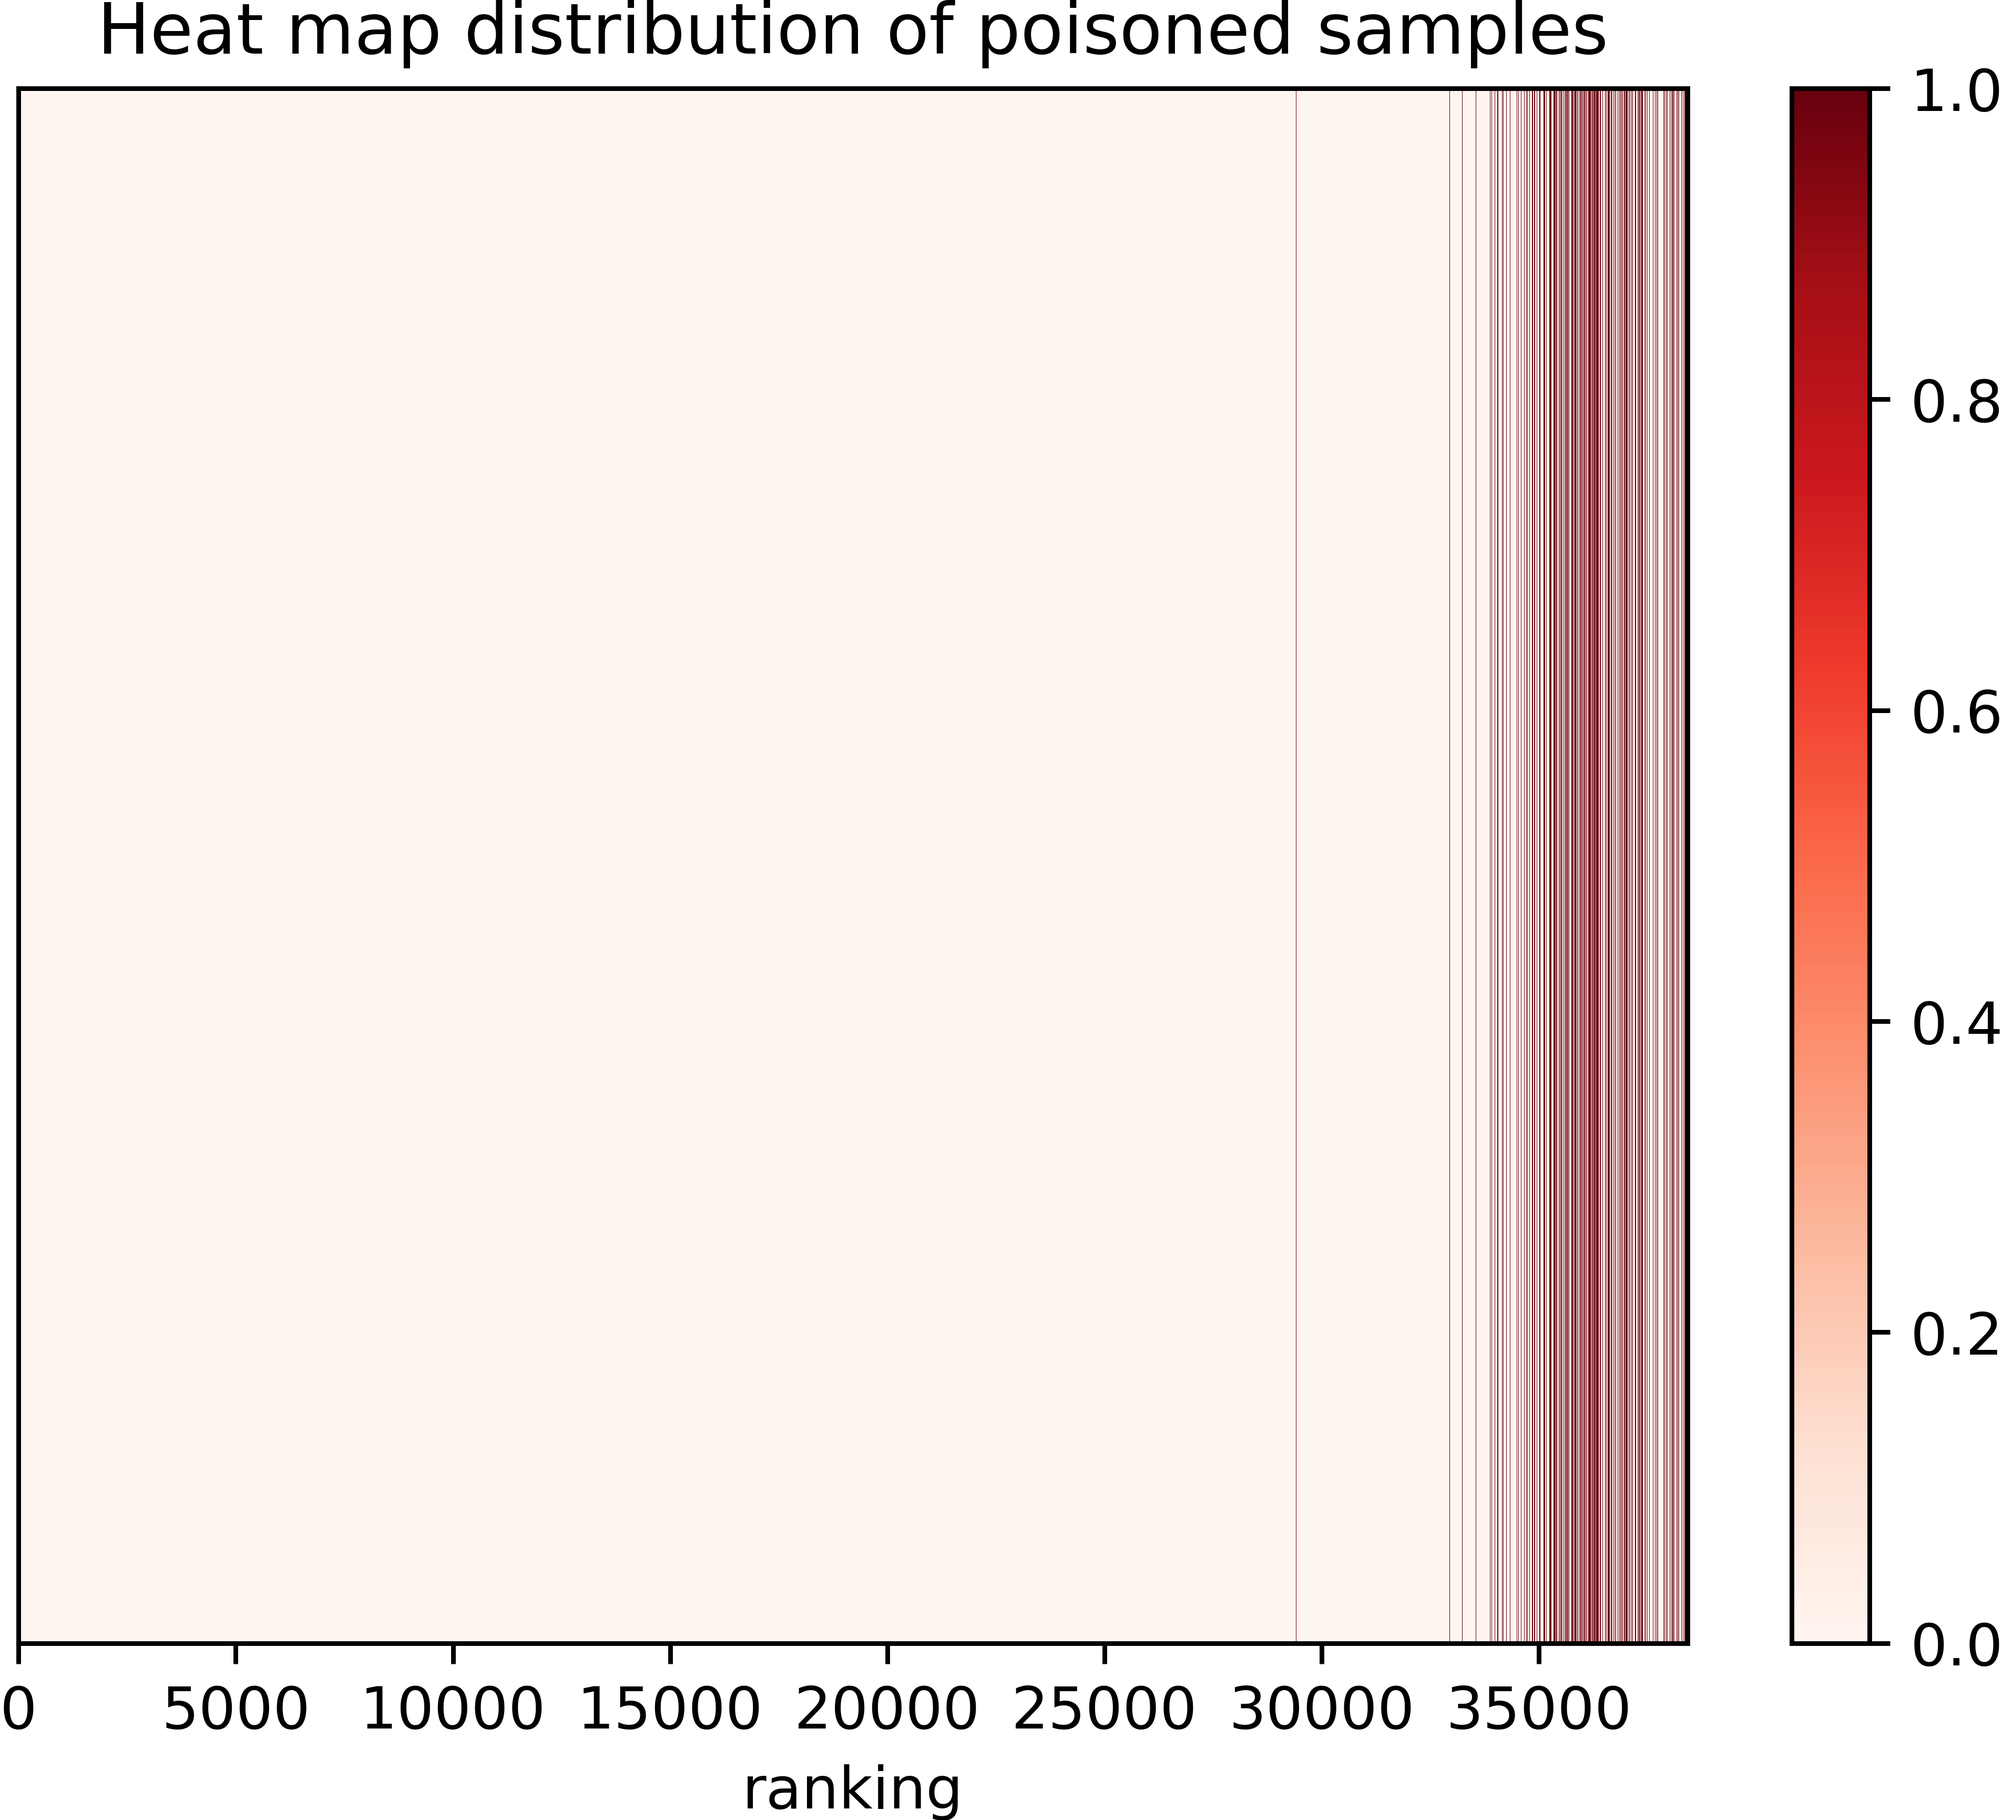
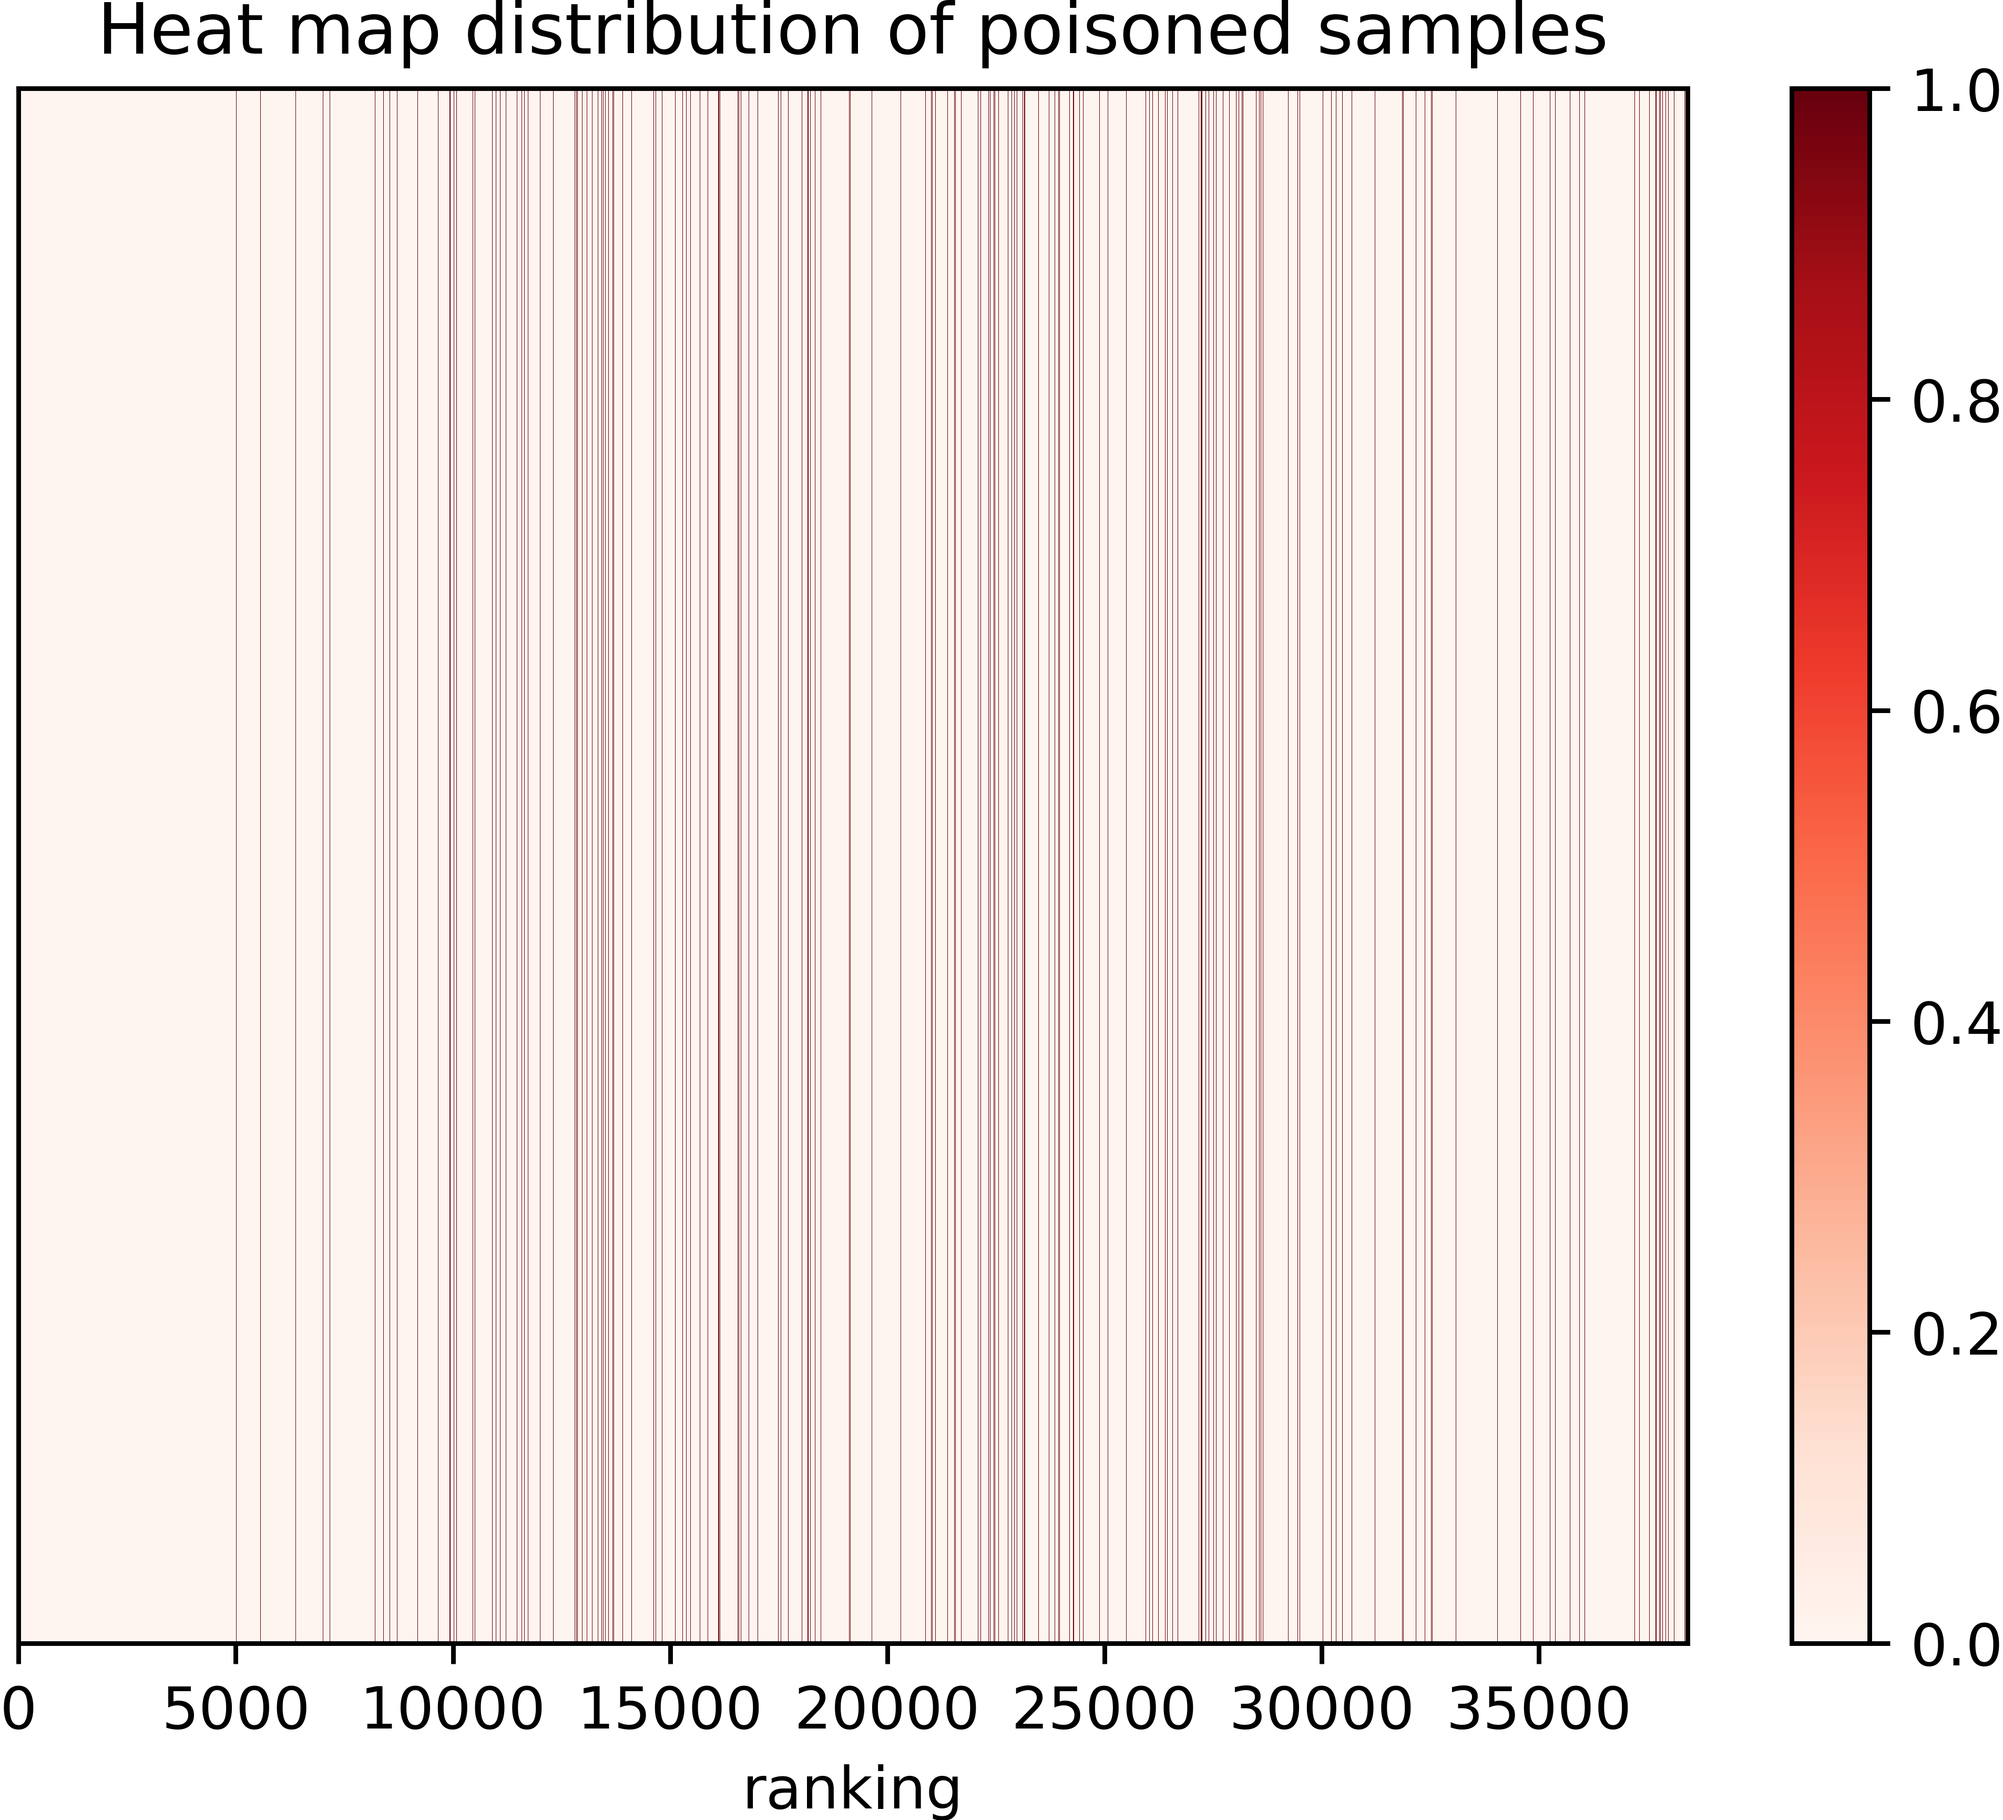
go

diff --git a/codes/ourMethod/retrain.py b/codes/ourMethod/retrain.py
@@ -14,7 +14,7 @@ import matplotlib.pyplot as plt
 from codes.asd.log import Record
 import torch
 import setproctitle
-from torch.utils.data import DataLoader,Subset
+from torch.utils.data import DataLoader,Subset,ConcatDataset
 import torch.nn as nn
 import torch.optim as optim
 from codes import config
@@ -137,12 +137,26 @@ poisoned_testset_loader = DataLoader(
 # 获得种子
 # {class_id:[sample_id]}
 clean_sample_dict = defaultdict(list)
+label_list = []
+for _, batch in enumerate(poisoned_evalset_loader):
+    Y = batch[1]
+    label_list.extend(Y.tolist())
+
+for sample_id in range(len(poisoned_trainset)):
+    if sample_id not in poisoned_ids:
+        label = label_list[sample_id]
+        clean_sample_dict[label].append(sample_id)
+'''
 for sample_id, item in enumerate(poisoned_trainset):
+    print(sample_id)
     x = item[0]
     y = item[1]
     isPoisoned = item[2]
+    # if sample_id not in poisoned_ids
     if isPoisoned is False:
         clean_sample_dict[y].append(sample_id)
+'''
+
 seed_sample_id_list = []
 for class_id,sample_id_list in clean_sample_dict.items():
     seed_sample_id_list.extend(np.random.choice(sample_id_list, replace=False, size=10).tolist())
@@ -156,9 +170,7 @@ def resort(ranked_sample_id_list,label_list,class_rank:list)->list:
         cls_num = len(class_rank)
         cls2score = {}
         for idx, cls in enumerate(class_rank):
-            # rank:类别cat的位次
             cls2score[cls] = (cls_num - idx)/cls_num 
-
         sample_num = len(ranked_sample_id_list)
         # 一个优先级队列
         q = queue.PriorityQueue()
@@ -173,7 +185,7 @@ def resort(ranked_sample_id_list,label_list,class_rank:list)->list:
             resort_sample_id_list.append(q.get()[1])
         return resort_sample_id_list
 
-def module_1(model,class_rank=None):
+def sort_sample_id(model,class_rank=None):
     '''基于模型损失值或class_rank对样本进行可疑程度排序'''
     model.to(device)
     dataset_loader = poisoned_evalset_loader # 不打乱
@@ -226,7 +238,7 @@ def draw(isPoisoned_list,file_name):
     plt.savefig(f"imgs/{file_name}", bbox_inches='tight', pad_inches=0.0, dpi=800)
     plt.close()
 
-def train(model,device,dataset,num_epoch=10,lr=1e-5):
+def train(model,device,dataset,num_epoch=10,lr=1e-3):
     model.train()
     model.to(device)
     dataset_loader = DataLoader(
@@ -325,13 +337,9 @@ def freeze_model(model,dataset_name,model_name):
         raise Exception("模型不存在")
     return model
 
-if __name__ == "__main__":
 
-    # 进程名称
-    proctitle = f"OMretrain|{config.dataset_name}|{config.model_name}|{config.attack_name}"
-    setproctitle.setproctitle(proctitle)
-    print(proctitle)
-    model = backdoor_model
+
+def seed_ft(model):
     # FT前模型评估
     e = EvalModel(model,poisoned_testset,device)
     asr = e.eval_acc()
@@ -339,7 +347,7 @@ if __name__ == "__main__":
     e = EvalModel(model,clean_testset,device)
     acc = e.eval_acc()
     print("backdoor_acc:",acc)
-    ranked_sample_id_list, isPoisoned_list = module_1(model)
+    ranked_sample_id_list, isPoisoned_list = sort_sample_id(model)
     draw(isPoisoned_list,file_name="backdoor_loss.png")
     # 冻结
     freeze_model(model,dataset_name=config.dataset_name,model_name=config.model_name)
@@ -353,8 +361,65 @@ if __name__ == "__main__":
     e = EvalModel(model,clean_testset,device)
     acc = e.eval_acc()
     print("FT_acc:",acc)
-    ranked_sample_id_list, isPoisoned_list = module_1(model)
+    ranked_sample_id_list, isPoisoned_list = sort_sample_id(model)
     draw(isPoisoned_list,file_name="retrain10epoch_loss.png")
-    ranked_sample_id_list, isPoisoned_list = module_1(model,class_rank)
+    ranked_sample_id_list, isPoisoned_list = sort_sample_id(model,class_rank)
     draw(isPoisoned_list,file_name="retrain10epoch_lossAndClassRank.png")
-    print("End")
+    
+
+def our_ft(model):
+    '''0: 先评估一下后门模型的ASR和ACC'''
+    e = EvalModel(model,poisoned_testset,device)
+    asr = e.eval_acc()
+    print("Backdoor_ASR:",asr)
+    e = EvalModel(model,clean_testset,device)
+    acc = e.eval_acc()
+    print("Backdoor_acc:",acc)
+    
+    '''1:先seed微调一下model'''
+    freeze_model(model,dataset_name=config.dataset_name,model_name=config.model_name)
+    model = train(model,device,seedSet,num_epoch=20, lr=1e-3)
+
+    '''2:评估一下种子微调后的ASR和ACC'''
+    e = EvalModel(model,poisoned_testset,device)
+    asr = e.eval_acc()
+    print("seedFT_ASR:",asr)
+    e = EvalModel(model,clean_testset,device)
+    acc = e.eval_acc()
+    print("seedFT_acc:",acc)
+
+    '''3:对样本进行排序，并选择出数据集'''
+    # seed微调后排序一下样本
+    class_rank = get_classes_rank()
+    ranked_sample_id_list, isPoisoned_list = sort_sample_id(model,class_rank)
+    num = int(len(ranked_sample_id_list)*0.5)
+    choiced_sample_id_list = ranked_sample_id_list[:num]
+    # 统计一下污染的含量
+    choiced_num = len(choiced_sample_id_list)
+    count = 0
+    for choiced_sample_id in choiced_sample_id_list:
+        if choiced_sample_id in poisoned_ids:
+            count += 1
+    print(f"污染样本含量:{count}/{choiced_num}")
+    
+    choicedSet = Subset(poisoned_trainset,choiced_sample_id_list)
+    '''4:基于种子集和选择的集再微调后门模型微调10轮次'''
+    # 合并种子集和选择集
+    availableSet = ConcatDataset([seedSet,choicedSet])
+    model = train(model,device,availableSet,lr=1e-3)
+
+    '''5:评估微调后的ASR和ACC'''
+    e = EvalModel(model,poisoned_testset,device)
+    asr = e.eval_acc()
+    print("OurFT_ASR:",asr)
+    e = EvalModel(model,clean_testset,device)
+    acc = e.eval_acc()
+    print("OurFT_acc:",acc)
+
+if __name__ == "__main__":
+    # 进程名称
+    proctitle = f"OMretrain|{config.dataset_name}|{config.model_name}|{config.attack_name}"
+    setproctitle.setproctitle(proctitle)
+    print(proctitle)
+    model = backdoor_model
+    our_ft(model)

diff --git a/codes/config.py b/codes/config.py
@@ -43,7 +43,7 @@ class_num = 30 #  CIFAR-10:10,GTSRB:43,ImageNet2012_subset:30
 # 当前实验设置的模型名字
 model_name = "DenseNet" # ResNet18, VGG19, DenseNet
 # 当前实验设置的攻击
-attack_name = "BadNets" # BadNets, IAD, Refool, WaNet
+attack_name = "Refool" # BadNets, IAD, Refool, WaNet
 # GPU设备
 gpu_id = 1
 # baseline ASD配置
